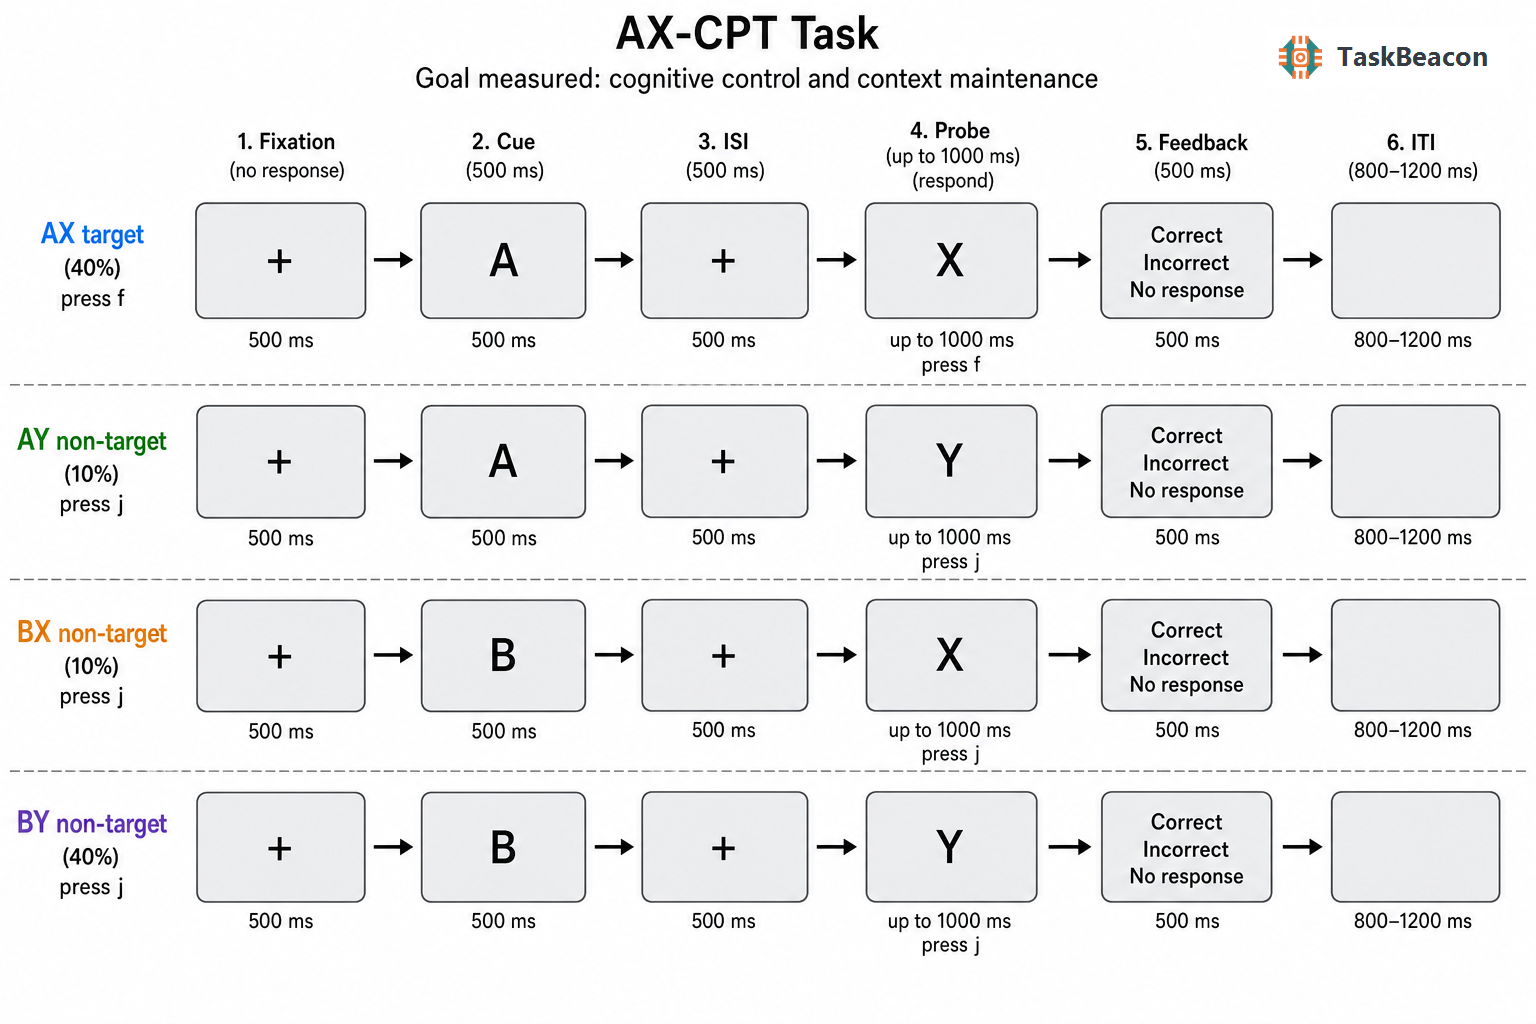
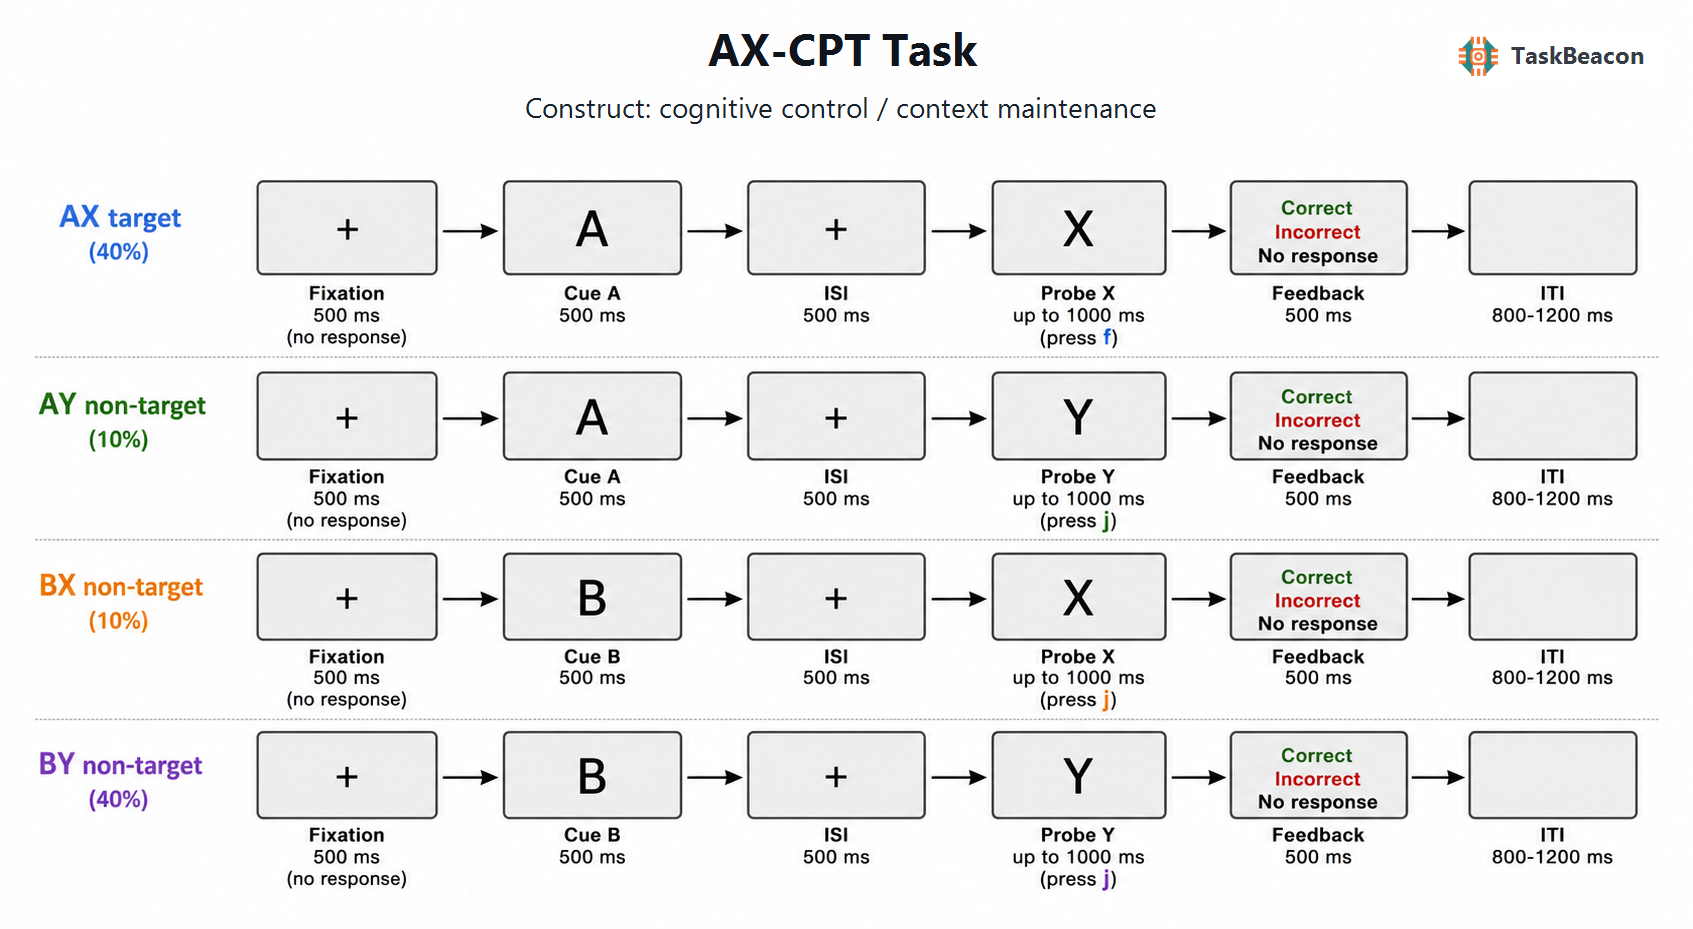
Update task flow diagram style

diff --git a/references/task_plot_brief.md b/references/task_plot_brief.md
@@ -1,37 +1,42 @@
 # Task Plot Brief
 
-Task: AX-CPT Task
+## Evidence Sources
 
-Goal measured: cognitive control and context maintenance.
+- `README.md`
+- `main.py`
+- `config/config.yaml`
+- `src/run_trial.py`
 
-Primary evidence:
-- `README.md`: task overview, methods, timing, condition weights.
-- `config/config.yaml`: condition list, response keys, timing, visible text stimuli.
-- `src/run_trial.py`: participant-visible trial sequence and response scoring.
+## Header
 
-Conditions:
-- AX: cue `A`, probe `X`, target trial, correct key `f`, weight 40%.
-- AY: cue `A`, probe `Y`, non-target trial, correct key `j`, weight 10%.
-- BX: cue `B`, probe `X`, non-target trial, correct key `j`, weight 10%.
-- BY: cue `B`, probe `Y`, non-target trial, correct key `j`, weight 40%.
+- Title: AX-CPT Task
+- Construct: cognitive control / context maintenance
 
-Trial phases:
-- Fixation: `+`, 500 ms, no response.
-- Cue: `A` or `B`, 500 ms. Runtime context allows keys, but scoring is at probe.
-- ISI: `+`, 500 ms.
-- Probe response: `X` or `Y`, up to 1000 ms, response keys `f` and `j`, terminates on response.
-- Feedback: `Correct`, `Incorrect`, or `No response`, 500 ms.
-- ITI: blank screen, random 800-1200 ms.
+## Participant-Visible Flow
 
-Participant-visible response rule:
-- Press `f` only for AX.
-- Press `j` for AY, BX, and BY.
+- Four randomized condition types are used: AX, AY, BX, BY.
+- AX is the target condition; AY, BX, and BY are non-target conditions.
+- Correct response is `f` for AX and `j` for AY, BX, and BY.
+- Every trial shows fixation, cue, delay fixation, probe response, feedback, and ITI.
+- Feedback is one of `Correct`, `Incorrect`, or `No response`.
 
-Block context:
-- 4 blocks, 40 trials per block, 160 trials total.
-- Trial types are weighted randomized within blocks.
+## Rows
 
-Image simplification:
-- Use four timeline rows: AX, AY, BX, BY.
-- Keep the same six phase snapshots in each row.
-- Use short English feedback labels to avoid encoding artifacts from the source files.
+- AX target: cue `A`, probe `X`, press `f`, 40% weight.
+- AY non-target: cue `A`, probe `Y`, press `j`, 10% weight.
+- BX non-target: cue `B`, probe `X`, press `j`, 10% weight.
+- BY non-target: cue `B`, probe `Y`, press `j`, 40% weight.
+
+## Timings
+
+- Fixation: 500 ms.
+- Cue: 500 ms.
+- Delay/ISI: 500 ms.
+- Probe response window: up to 1000 ms.
+- Feedback: 500 ms.
+- ITI: 800-1200 ms.
+
+## Rendering Notes
+
+- The generated raw image must contain only timeline content below a blank header band.
+- The final title, `Construct: cognitive control / context maintenance` subtitle, and TaskBeacon logo are added by post-processing.

diff --git a/references/task_plot_review.md b/references/task_plot_review.md
@@ -2,29 +2,23 @@
 
 Review checklist source: `E:/Taskbeacon/skills/task-plot/references/review_checklist.md`.
 
-Generated image:
-- `E:/Taskbeacon/T000001-ax-cpt/task_flow.png`
-
 ## Evidence Match
 
-- Pass: task is labeled as AX-CPT.
-- Pass: four condition rows are present: AX target, AY non-target, BX non-target, BY non-target.
-- Pass: phase order is fixation, cue, ISI, probe, feedback, ITI.
-- Pass: cues/probes match condition identities: AX, AY, BX, BY.
-- Pass: response labels show `f` only for AX and `j` for AY/BX/BY.
-- Pass: timing labels show 500 ms fixation/cue/ISI/feedback, up to 1000 ms probe, and 800-1200 ms ITI.
+- Pass: task name matches `AX-CPT Task`.
+- Pass: rows match AX, AY, BX, and BY conditions.
+- Pass: phase order matches `src/run_trial.py`: fixation, cue, ISI, probe, feedback, ITI.
+- Pass: timing labels match config: 500 ms fixation/cue/ISI/feedback, up to 1000 ms probe, 800-1200 ms ITI.
+- Pass: response mapping is correct: `f` only for AX target; `j` for AY, BX, and BY.
 
 ## Visual Quality
 
-- Pass: text is readable at normal preview size.
-- Pass: no obvious garbled labels or unsupported decorative content.
-- Pass: rows and arrows clearly show temporal order.
-- Pass: timing labels do not overlap screen snapshots.
-- Pass: upgraded TaskBeacon figure style is applied with gray screen boxes, row separators, and restrained condition colors.
-- Pass: the image model did not generate its own logo, watermark, or brand text.
-- Pass: the fixed TaskBeacon logo lockup was applied in post-processing and appears borderless in the top-right corner without overlapping timeline content.
-- Pass: README embeds `![Task Flow](task_flow.png)` under `## 2. Task Flow`.
+- Pass: fixed title and `Construct: cognitive control / context maintenance` subtitle are centered in the header.
+- Pass: fixed TaskBeacon logo lockup is borderless in the top-right corner and does not overlap content.
+- Pass: text is readable and no generated extra title, subtitle, logo, watermark, people, or devices are present.
+- Pass: `references/task_plot_timeline_raw.png` preserves the generated timeline before header/logo post-processing.
 
-## Decision
+## README Embed
 
-Accepted regenerated `task_flow.png` from the upgraded `task-plot` skill template and fixed logo overlay workflow. No further regeneration required.
+- Pass: `README.md` contains `## 2. Task Flow`.
+- Pass: the first image under `## 2. Task Flow` is exactly `![Task Flow](task_flow.png)`.
+- Pass: final image is saved at the task root as `task_flow.png`.

diff --git a/references/task_plot_prompt.md b/references/task_plot_prompt.md
@@ -3,7 +3,7 @@ Asset type: TaskBeacon task flow diagram
 Primary request: Create a clean, publication-ready task flow diagram as a timeline collection for the behavioral task described below.
 
 Task: AX-CPT Task
-Goal measured: cognitive control and context maintenance
+Construct: cognitive control / context maintenance
 Rows/conditions:
 - AX target: cue A then probe X; correct key f; weighted 40%
 - AY non-target: cue A then probe Y; correct key j; weighted 10%
@@ -26,15 +26,16 @@ Visual requirements:
 - Place condition labels at the left of each row.
 - Use short labels only; avoid paragraphs inside the image.
 - Make all text legible at normal document preview size.
-- Leave clean whitespace in the top-right corner for a fixed TaskBeacon logo lockup that will be added after generation.
+- Leave a clean blank header band across the top 15-18% of the image. This band is reserved for a fixed title, `Construct: ...` subtitle, and TaskBeacon logo lockup that will be added after generation.
 
 Accuracy constraints:
 - Do not invent phases, stimuli, condition names, keys, rewards, or timings.
 - Do not add people, lab equipment, decorative scenes, logos, or unrelated icons.
-- Do not draw any logo, watermark, brand mark, or `TaskBeacon` text inside the generated image.
+- Do not draw the task title, construct subtitle, any logo, watermark, brand mark, or `TaskBeacon` text inside the generated image.
+- Draw only the timeline content below the blank header band.
 - If a detail is unknown, omit it rather than guessing.
 - Preserve these exact terms where used: AX, AY, BX, BY, A, B, X, Y, f, j, 500 ms, 1000 ms, 800-1200 ms, Correct, Incorrect, No response, ITI.
 - Show `f` only for AX target and `j` for AY, BX, and BY.
 
 Style:
-TaskBeacon scientific infographic style: clean vector-like raster image, organized spacing, gray screen boxes, restrained color accents, and a blank top-right logo-safe area.
+TaskBeacon scientific infographic style: clean vector-like raster image, organized spacing, gray screen boxes, restrained color accents, and a blank header-safe area.